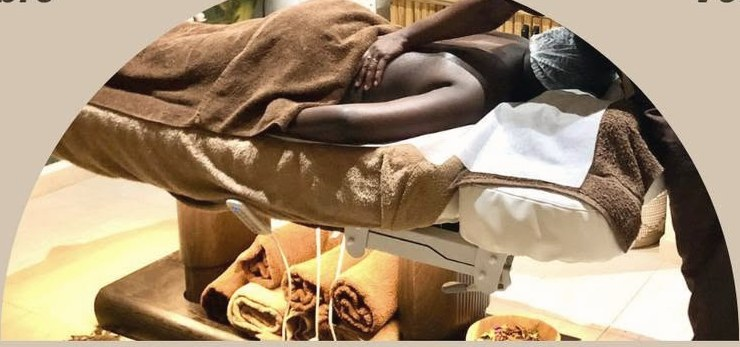
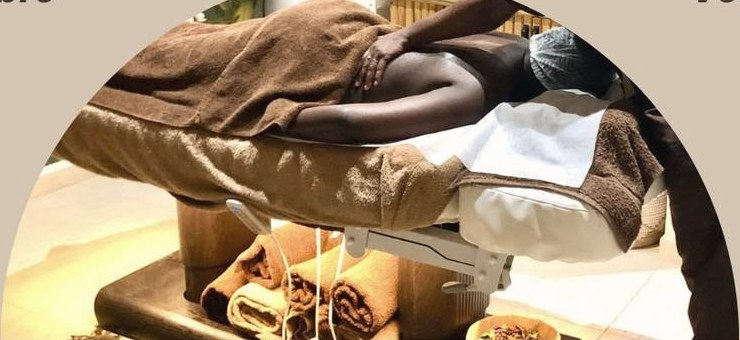
Spec : révision 1, direction Indigo et règles de texte (maquettes A/B)

diff --git a/maquettes/a-facade.html b/maquettes/a-facade.html
@@ -1,0 +1,136 @@
+<!doctype html>
+<html lang="fr">
+<head>
+<meta charset="utf-8">
+<meta name="viewport" content="width=device-width, initial-scale=1">
+<title>Direction A — La façade</title>
+<link rel="preconnect" href="https://fonts.googleapis.com">
+<link rel="preconnect" href="https://fonts.gstatic.com" crossorigin>
+<link href="https://fonts.googleapis.com/css2?family=Archivo:wdth,wght@62..125,100..900&display=swap" rel="stylesheet">
+<style>
+  :root {
+    --chaux: #F5F5F0;
+    --noir: #000;
+    --beton: #D6D6CE;
+    --gris: #4F4F4A;
+    --bougainvillee: #B3246B;
+    --meneau: 2px;
+  }
+  * { box-sizing: border-box; margin: 0; padding: 0; }
+  html { -webkit-text-size-adjust: 100%; }
+  body { background: var(--chaux); color: var(--noir); font-family: Archivo, system-ui, sans-serif; font-size: 17px; line-height: 1.55; }
+  a { color: inherit; text-decoration: none; }
+  img { display: block; width: 100%; height: 100%; object-fit: cover; }
+  .large { font-stretch: 125%; }
+  .page { max-width: 1440px; margin: 0 auto; border-inline: var(--meneau) solid var(--noir); }
+
+  .demo { background: var(--noir); color: var(--chaux); font-size: 13px; padding: 6px 20px; }
+
+  header { display: flex; align-items: stretch; border-bottom: var(--meneau) solid var(--noir); }
+  .marque { display: flex; align-items: center; padding: 18px 24px; border-right: var(--meneau) solid var(--noir); font-stretch: 125%; font-weight: 800; font-size: 22px; letter-spacing: -.01em; }
+  nav { display: flex; flex: 1; }
+  nav a { display: flex; align-items: center; padding: 0 22px; font-size: 15px; border-right: var(--meneau) solid var(--noir); }
+  nav a:hover { background: var(--noir); color: var(--chaux); }
+  .langue { margin-left: auto; border-left: var(--meneau) solid var(--noir); border-right: 0; }
+  .reserver { display: flex; align-items: center; padding: 0 28px; background: var(--bougainvillee); color: #fff; font-weight: 600; font-size: 15px; }
+
+  .hero { display: grid; grid-template-columns: 5fr 7fr; border-bottom: var(--meneau) solid var(--noir); }
+  .hero-texte { padding: 72px 48px 48px; display: flex; flex-direction: column; border-right: var(--meneau) solid var(--noir); }
+  h1 { font-stretch: 125%; font-weight: 700; font-size: clamp(2.6rem, 4.6vw, 4.6rem); line-height: .98; letter-spacing: -.035em; }
+  .hero-texte p { margin-top: 28px; max-width: 30ch; color: var(--gris); font-size: 19px; }
+  .actions { margin-top: auto; padding-top: 48px; display: flex; flex-wrap: wrap; gap: 12px 24px; align-items: center; }
+  .bouton { display: inline-block; background: var(--noir); color: var(--chaux); padding: 16px 28px; font-weight: 600; }
+  .bouton:hover { background: var(--bougainvillee); }
+  .lien { border-bottom: var(--meneau) solid currentColor; padding-bottom: 2px; font-weight: 500; }
+  .note { margin-top: 28px; font-size: 14px; color: var(--gris); }
+
+  /* La photo vue à travers une fenêtre à meneaux d'acier, comme celles de la façade */
+  .fenetre { position: relative; min-height: 640px; }
+  .fenetre::after {
+    content: ''; position: absolute; inset: 0; pointer-events: none;
+    background:
+      linear-gradient(var(--noir), var(--noir)) 38% 100% / 10px 56% no-repeat,
+      linear-gradient(var(--noir), var(--noir)) 0 44% / 100% 10px no-repeat;
+  }
+
+  .soins { display: grid; grid-template-columns: 3fr 9fr; }
+  .soins-titre { padding: 48px; border-right: var(--meneau) solid var(--noir); }
+  h2 { font-stretch: 125%; font-weight: 700; font-size: 2.6rem; letter-spacing: -.03em; line-height: 1; }
+  .soins-titre p { margin-top: 16px; font-size: 14px; color: var(--gris); max-width: 22ch; }
+  .carreaux { display: grid; grid-template-columns: repeat(3, 1fr); }
+  .carreau { display: flex; flex-direction: column; min-height: 220px; padding: 28px; border-right: var(--meneau) solid var(--noir); border-bottom: var(--meneau) solid var(--noir); }
+  .carreau:nth-child(3n) { border-right: 0; }
+  .carreau h3 { font-stretch: 112%; font-weight: 650; font-size: 1.45rem; letter-spacing: -.015em; line-height: 1.1; }
+  .carreau p { margin-top: 10px; color: var(--gris); }
+  .carreau .prix { margin-top: auto; padding-top: 24px; font-weight: 600; }
+  .carreau:hover { background: var(--noir); color: var(--chaux); }
+  .carreau:hover p { color: var(--beton); }
+  .carreau.rituels { background: var(--beton); }
+  .carreau.rituels:hover { background: var(--noir); }
+
+  :focus-visible { outline: 3px solid var(--bougainvillee); outline-offset: 2px; }
+
+  @media (max-width: 900px) {
+    nav a:not(.langue) { display: none; }
+    .marque { border-right: 0; font-size: 19px; padding: 14px 18px; }
+    .reserver { padding: 0 18px; }
+    .hero { grid-template-columns: 1fr; }
+    .hero-texte { padding: 40px 20px 32px; border-right: 0; border-bottom: var(--meneau) solid var(--noir); }
+    .actions { padding-top: 32px; }
+    .fenetre { min-height: 0; aspect-ratio: 4 / 5; }
+    .soins { grid-template-columns: 1fr; }
+    .soins-titre { padding: 32px 20px; border-right: 0; border-bottom: var(--meneau) solid var(--noir); }
+    .carreaux { grid-template-columns: 1fr; }
+    .carreau { min-height: 0; padding: 22px 20px; border-right: 0; }
+    .carreau .prix { padding-top: 14px; }
+  }
+</style>
+</head>
+<body>
+<div class="demo">Démo : tarifs indicatifs, à valider ensemble.</div>
+<div class="page">
+  <header>
+    <a class="marque" href="#">Medi Spa</a>
+    <nav>
+      <a href="#">Soins</a>
+      <a href="#">Rituels</a>
+      <a href="#">Carte cadeau</a>
+      <a href="#">Contact</a>
+      <a class="langue" href="#" lang="en">EN</a>
+    </nav>
+    <a class="reserver" href="#">Réserver</a>
+  </header>
+
+  <section class="hero">
+    <div class="hero-texte">
+      <h1>Massages, hammam et kiné à Saly.</h1>
+      <p>Face au Totem, à Saly Portudal. Du lundi au samedi, de 9 h à 20 h.</p>
+      <div class="actions">
+        <a class="bouton" href="#">Réserver un soin</a>
+        <a class="lien" href="#soins">Voir les soins et les tarifs</a>
+      </div>
+      <p class="note">Noté 4,8 sur 5 sur Google (71 avis).</p>
+    </div>
+    <div class="fenetre"><img src="../site/src/assets/photos/ambiance-1.jpg" alt="L'entrée de MEDI-SPA Saly"></div>
+  </section>
+
+  <section class="soins" id="soins">
+    <div class="soins-titre">
+      <h2>Soins</h2>
+      <p>Tarifs indicatifs pour la démo.</p>
+    </div>
+    <div class="carreaux">
+      <a class="carreau" href="#"><h3>Massages</h3><p>Relaxant, tonique ou en duo.</p><span class="prix">Dès 12 000 FCFA</span></a>
+      <a class="carreau" href="#"><h3>Visage et corps</h3><p>Nettoyage, éclat, hydratation, gommage.</p><span class="prix">Dès 10 000 FCFA</span></a>
+      <a class="carreau" href="#"><h3>Hammam et gommage</h3><p>Vapeur, gommage au gant, enveloppement.</p><span class="prix">Dès 8 000 FCFA</span></a>
+      <a class="carreau" href="#"><h3>Épilation</h3><p>Visage et corps, à la cire.</p><span class="prix">Dès 2 000 FCFA</span></a>
+      <a class="carreau" href="#"><h3>Kinésithérapie</h3><p>Bilan, puis séances de rééducation.</p><span class="prix">Sur devis</span></a>
+      <a class="carreau" href="#"><h3>Balnéo</h3><p>Bain bouillonnant, seul ou à deux.</p><span class="prix">Dès 10 000 FCFA</span></a>
+      <a class="carreau" href="#"><h3>Amincissement</h3><p>Programme sur mesure après un bilan offert.</p><span class="prix">Dès 20 000 FCFA</span></a>
+      <a class="carreau rituels" href="#"><h3>Rituels</h3><p>Trois forfaits de 60 à 90 minutes.</p><span class="prix">Dès 25 000 FCFA</span></a>
+      <a class="carreau" href="#"><h3>Carte cadeau</h3><p>Un montant ou un rituel à offrir.</p><span class="prix">Dès 10 000 FCFA</span></a>
+    </div>
+  </section>
+</div>
+</body>
+</html>

diff --git a/maquettes/b-indigo.html b/maquettes/b-indigo.html
@@ -1,0 +1,117 @@
+<!doctype html>
+<html lang="fr">
+<head>
+<meta charset="utf-8">
+<meta name="viewport" content="width=device-width, initial-scale=1">
+<title>Direction B — Indigo</title>
+<link rel="preconnect" href="https://fonts.googleapis.com">
+<link rel="preconnect" href="https://fonts.gstatic.com" crossorigin>
+<link href="https://fonts.googleapis.com/css2?family=Young+Serif&family=Hanken+Grotesk:wght@400;500;600&display=swap" rel="stylesheet">
+<style>
+  :root {
+    --indigo: #1C2657;
+    --indigo-trait: #37437F;
+    --indigo-doux: #4B5585;
+    --blanc: #FFFFFF;
+    --brume: #E9ECF4;
+    --safran: #E2A72E;
+  }
+  * { box-sizing: border-box; margin: 0; padding: 0; }
+  body { background: var(--blanc); color: var(--indigo); font-family: 'Hanken Grotesk', system-ui, sans-serif; font-size: 17px; line-height: 1.6; }
+  a { color: inherit; text-decoration: none; }
+  img { display: block; width: 100%; height: 100%; object-fit: cover; }
+  .serif { font-family: 'Young Serif', Georgia, serif; font-weight: 400; }
+
+  .demo { background: var(--safran); color: var(--indigo); font-size: 13px; text-align: center; padding: 6px 20px; }
+
+  .haut { background: var(--indigo); color: var(--blanc); }
+  header { max-width: 1240px; margin: 0 auto; padding: 22px 32px; display: flex; align-items: center; gap: 36px; }
+  .marque { font-family: 'Young Serif', Georgia, serif; font-size: 26px; }
+  nav { display: flex; gap: 28px; font-size: 15px; margin-left: auto; }
+  nav a { opacity: .85; }
+  nav a:hover { opacity: 1; text-decoration: underline; text-underline-offset: 6px; }
+  .reserver { background: var(--safran); color: var(--indigo); font-weight: 600; font-size: 15px; padding: 11px 20px; border-radius: 999px; }
+
+  /* Le sablier de l'affiche des Nocturnes, recomposé : deux demi-disques de photo et le titre à la taille */
+  .hero { text-align: center; padding: 40px 24px 96px; }
+  .sablier { width: min(460px, 100%); margin: 0 auto; }
+  .demi { overflow: hidden; }
+  .demi.haut-sablier { aspect-ratio: 2 / 1; border-radius: 0 0 999px 999px; }
+  .demi.bas-sablier { aspect-ratio: 2 / 1; border-radius: 999px 999px 0 0; }
+  h1 { font-family: 'Young Serif', Georgia, serif; font-weight: 400; color: var(--safran); font-size: clamp(2.3rem, 5.2vw, 4.4rem); line-height: 1.02; margin: 26px auto; max-width: 13ch; text-wrap: balance; }
+  .hero p { margin: 36px auto 0; max-width: 34ch; color: #D5DAEC; font-size: 18px; }
+  .actions { margin-top: 28px; display: flex; gap: 12px 22px; justify-content: center; flex-wrap: wrap; align-items: center; }
+  .bouton { background: var(--safran); color: var(--indigo); font-weight: 600; padding: 15px 28px; border-radius: 999px; }
+  .lien { color: var(--blanc); border-bottom: 1px solid currentColor; }
+  .note { margin-top: 22px; font-size: 14px; color: #AEB5D4; }
+
+  .soins { max-width: 900px; margin: 0 auto; padding: 96px 24px 120px; }
+  h2 { font-family: 'Young Serif', Georgia, serif; font-weight: 400; font-size: 3.4rem; line-height: 1; }
+  .soins > p { margin-top: 12px; color: var(--indigo-doux); font-size: 14px; }
+  ul { list-style: none; margin-top: 48px; border-top: 1px solid var(--brume); }
+  li a { display: grid; grid-template-columns: 1fr auto; column-gap: 24px; padding: 26px 0; border-bottom: 1px solid var(--brume); }
+  li h3 { font-family: 'Young Serif', Georgia, serif; font-weight: 400; font-size: 2rem; line-height: 1.1; }
+  li p { grid-column: 1; color: var(--indigo-doux); margin-top: 6px; }
+  li .prix { grid-column: 2; grid-row: 1; align-self: end; font-weight: 600; white-space: nowrap; }
+  li a:hover h3 { text-decoration: underline; text-decoration-thickness: 2px; text-underline-offset: 8px; text-decoration-color: var(--safran); }
+
+  :focus-visible { outline: 3px solid var(--safran); outline-offset: 3px; }
+
+  @media (max-width: 760px) {
+    header { padding: 16px 20px; gap: 16px; }
+    nav a { display: none; }
+    .marque { font-size: 22px; }
+    .hero { padding: 24px 20px 72px; }
+    .soins { padding: 64px 20px 80px; }
+    h2 { font-size: 2.6rem; }
+    li a { grid-template-columns: 1fr; }
+    li h3 { font-size: 1.6rem; }
+    li .prix { grid-column: 1; grid-row: auto; margin-top: 8px; }
+  }
+</style>
+</head>
+<body>
+<div class="demo">Démo : tarifs indicatifs, à valider ensemble.</div>
+<div class="haut">
+  <header>
+    <a class="marque" href="#">Médi-Spa</a>
+    <nav>
+      <a href="#">Soins</a>
+      <a href="#">Rituels</a>
+      <a href="#">Carte cadeau</a>
+      <a href="#">Contact</a>
+      <a href="#" lang="en">EN</a>
+    </nav>
+    <a class="reserver" href="#">Réserver</a>
+  </header>
+
+  <section class="hero">
+    <div class="sablier">
+      <div class="demi haut-sablier"><img src="../site/src/assets/photos/hero.jpg" alt="Soin du visage, yeux fermés"></div>
+      <h1>Massages, hammam et kiné à Saly</h1>
+      <div class="demi bas-sablier"><img src="../site/src/assets/photos/cabine-arche.jpg" alt="Une cabine de massage de MEDI-SPA Saly"></div>
+    </div>
+    <p>Face au Totem, à Saly Portudal. Du lundi au samedi, de 9 h à 20 h.</p>
+    <div class="actions">
+      <a class="bouton" href="#">Réserver un soin</a>
+      <a class="lien" href="#soins">Voir les soins et les tarifs</a>
+    </div>
+    <p class="note">Noté 4,8 sur 5 sur Google (71 avis).</p>
+  </section>
+</div>
+
+<section class="soins" id="soins">
+  <h2>Soins</h2>
+  <p>Tarifs indicatifs pour la démo.</p>
+  <ul>
+    <li><a href="#"><h3>Massages</h3><p>Relaxant, tonique ou en duo.</p><span class="prix">Dès 12 000 FCFA</span></a></li>
+    <li><a href="#"><h3>Visage et corps</h3><p>Nettoyage, éclat, hydratation, gommage.</p><span class="prix">Dès 10 000 FCFA</span></a></li>
+    <li><a href="#"><h3>Hammam et gommage</h3><p>Vapeur, gommage au gant, enveloppement.</p><span class="prix">Dès 8 000 FCFA</span></a></li>
+    <li><a href="#"><h3>Épilation</h3><p>Visage et corps, à la cire.</p><span class="prix">Dès 2 000 FCFA</span></a></li>
+    <li><a href="#"><h3>Kinésithérapie</h3><p>Bilan, puis séances de rééducation.</p><span class="prix">Sur devis</span></a></li>
+    <li><a href="#"><h3>Balnéo</h3><p>Bain bouillonnant, seul ou à deux.</p><span class="prix">Dès 10 000 FCFA</span></a></li>
+    <li><a href="#"><h3>Amincissement</h3><p>Programme sur mesure après un bilan offert.</p><span class="prix">Dès 20 000 FCFA</span></a></li>
+  </ul>
+</section>
+</body>
+</html>

diff --git a/site/scripts/photos.py b/site/scripts/photos.py
@@ -33,7 +33,7 @@ def sauver(im: Image.Image, nom: str) -> None:
 # Les coins couleur taupe restent hors champ une fois masqués par .arche-inverse / .arche.
 affiche = Image.open(SRC / 'affiche-nocturnes.jpg')
 sauver(etalonner(affiche.crop((654, 405, 1392, 720))), 'cabine-haut.jpg')
-sauver(etalonner(affiche.crop((654, 765, 1394, 1112))), 'cabine-arche.jpg')
+sauver(etalonner(affiche.crop((654, 765, 1394, 1105))), 'cabine-arche.jpg')
 sauver(etalonner(Image.open(SRC / 'facade.jpg')), 'facade.jpg')
 
 for f in sorted(SRC.glob('*.jpg')):

diff --git a/docs/superpowers/specs/2026-09-28-refonte-medispa-design.md b/docs/superpowers/specs/2026-09-28-refonte-medispa-design.md
@@ -165,3 +165,67 @@ site/src/
 
 ## 11. Hors périmètre (phase 2)
 Paiement en ligne intégré, calendrier temps réel, rappels automatiques J-1, programme fidélité, admin CMS, déploiement. Le déploiement sera préparé mais ne sera fait qu'avec ton accord et ton compte Cloudflare.
+
+---
+
+## Révision 1 — 29/09/2026 : direction « Indigo » et règles de texte
+
+Cette révision **remplace le §3** (direction artistique) et **modifie le contenu de l'accueil (§4)**, après le retour du client : la première version faisait « générique IA », avec Cormorant + Jost, du beige et de l'or, et un texte qui répétait les infos. Parmi deux maquettes rendues (`maquettes/`), le client a choisi la direction B, « Indigo ».
+
+### R1. Direction artistique
+
+**Couleurs** (contrastes vérifiés, tous ≥ AA)
+
+| Jeton | Valeur | Usage |
+|---|---|---|
+| `indigo` | `#1C2657` | Blocs pleins (hero, nocturnes, pied de page) et texte principal sur blanc (14,3) |
+| `indigo-trait` | `#37437F` | Filets sur fond indigo |
+| `indigo-doux` | `#4B5585` | Texte secondaire sur blanc (7,2) et sur brume (6,1) |
+| `brume` | `#E9ECF4` | Filets et fonds secondaires sur blanc |
+| `blanc` | `#FFFFFF` | Fond principal |
+| `safran` | `#E2A72E` | Accent : boutons principaux (texte indigo, 6,7), titre du hero sur indigo |
+
+**Autres choix**
+- **Typographies** : **Young Serif** pour les titres (une seule graisse) et **Hanken Grotesk** pour le texte (400, 500, 600). Les deux sont auto-hébergées (`@fontsource`).
+- **Motif** : le sablier de l'affiche, c'est-à-dire deux demi-disques de photo. Il est utilisé **une seule fois**, dans le hero, avec le titre à la taille du sablier. Chaque fiche soin a une seule photo en demi-disque. Aucun autre masque décoratif.
+- **Mise en page** : hero centré et symétrique. Les contenus sont alignés à gauche dans une colonne d'environ 900 px. Beaucoup de blanc, alternance de blocs indigo et de blocs blancs.
+- **Boutons** : en pilule, en minuscules, un verbe et un objet, sans flèche.
+- **Mouvement** : aucune apparition au scroll. Seules les actions de l'utilisateur animent quelque chose (ouvrir, sélectionner).
+
+### R2. Règles de texte (valables pour tout le site)
+
+1. **Formes interdites** :
+   - un surtitre en capitales au-dessus d'un titre ;
+   - des infos enchaînées par des points médians ;
+   - une flèche en fin de bouton ;
+   - un mot mis en valeur (italique ou couleur) dans un titre ;
+   - des rangées d'étoiles ;
+   - un gros chiffre avec un petit label.
+2. **Une info, un endroit** :
+   - la note Google apparaît une fois dans le hero, puis la section avis cite les vrais avis sans répéter le chiffre ;
+   - l'adresse apparaît dans la section contact et le pied de page, pas ailleurs.
+3. **Horaires en une phrase** : « Du lundi au samedi, de 9 h à 20 h. Le dimanche sur rendez-vous. »
+4. **Uniquement des faits vérifiables** : soins, prix, lieu, horaires, avis réels. On supprime les affirmations sur l'hygiène ou l'équipe (« équipe attentive », « c'est d'abord l'hygiène »).
+5. **Soins** : une ligne descriptive factuelle, un déroulé concret, des prix. La description longue est ramenée à deux phrases au maximum.
+6. **Boutons nommés par l'action** : « Réserver un soin », « Voir les soins et les tarifs », « Commander sur WhatsApp », « Demander les prochaines dates ».
+
+### R3. Accueil révisé (remplace la composition du §4)
+
+1. **Hero indigo en sablier** : titre « Massages, hammam et kiné à Saly », ligne adresse + horaires, deux boutons, note Google.
+2. **Soins** : menu typographique des 7 soins (nom, une ligne, prix « dès … »).
+3. **Rituels** : trois forfaits (nom, durée, contenu, prix), sans badge.
+4. **Nocturnes** : bande indigo, une phrase et un bouton WhatsApp. Les dates n'apparaissent que si une nocturne à venir est saisie.
+5. **Avis** : les avis Google recopiés mot pour mot, en grand, avec le prénom et le mois. Un lien vers tous les avis.
+6. **Carte cadeau** : une phrase, le visuel de la carte (indigo et safran) et un bouton.
+7. **Contact** : photo réelle de la façade, pour reconnaître le lieu en arrivant. Adresse, horaires en une ligne, téléphone, WhatsApp, e-mail, carte au clic.
+
+**Supprimés** : le bandeau de réassurance, la section « Le lieu » (affirmations invérifiables) et le badge circulaire de note.
+
+### R4. Impact sur le plan
+
+- **Inchangés** : `src/lib/` et ses tests, le modèle de contenu, les routes, les scripts de réservation et de carte cadeau (logique), `verifier-dist.mjs`.
+- **À refaire selon R1 à R3** :
+  - les jetons et les polices (`global.css`, paquets fontsource) ;
+  - les composants visuels (Titre, CarteSoin, sections de l'accueil, fiches, liste, réservation, carte cadeau), en suivant les maquettes plutôt que le code visuel du plan ;
+  - `ui.ts` (textes raccourcis) ;
+  - les champs `accroche` et `description` des soins (raccourcis).
